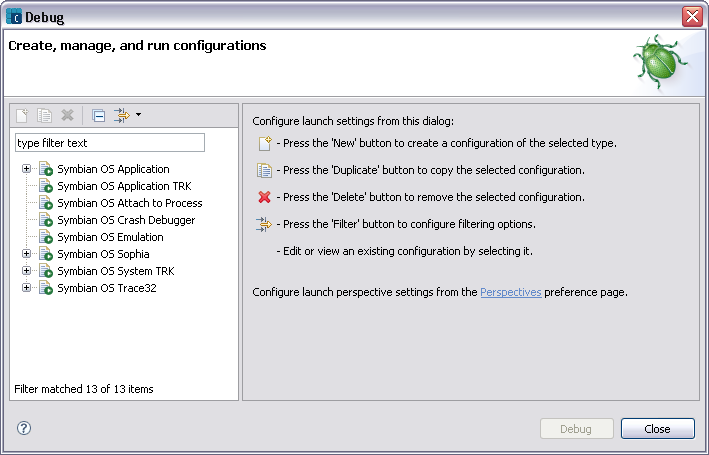
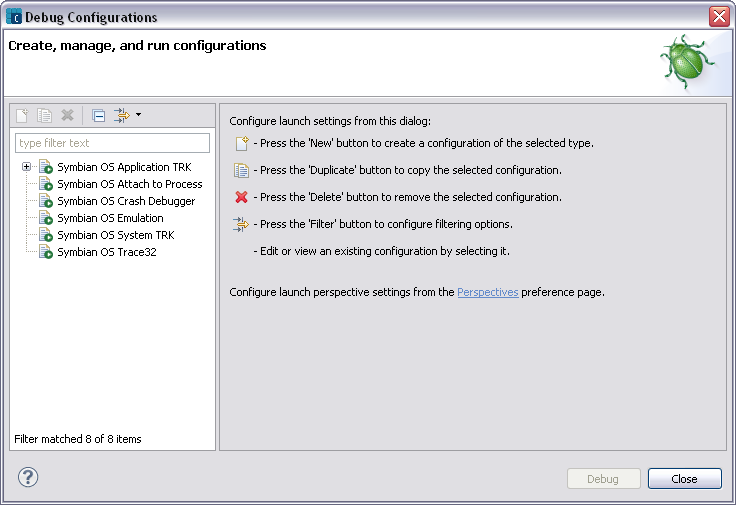
updated creating a launch config page and images
--HG--
branch : RCL_2_4

Changed region(s): [[0.0, 0.0, 1.0, 1.0], [0.3724, 0.6154, 0.6206, 0.6462]]

diff --git a/core/com.nokia.carbide.cpp.doc.user/html/tasks/projects/prj_debug_config.htm b/core/com.nokia.carbide.cpp.doc.user/html/tasks/projects/prj_debug_config.htm
@@ -18,23 +18,21 @@
 </ul>
 <div class="step">
 <h4>Creating a Default Launch Configuration</h4>
-<p class="note"><b>NOTE</b> Carbide.c++ only creates a new default launch configuration when it cannot find one in the project. If the project already contains a launch configuration, Carbide.c++ launches that instead. </p>
+<p class="note"><b>NOTE</b> Carbide only creates a new default launch configuration when it cannot find one in the project. If the project already contains a launch configuration, Carbide launches that instead. </p>
 <ul>
   <li>Click the <b>Run</b> (<img src="../../images/icons/btn_run.png" alt="Run icon" width="16" height="16" align="middle" />) or <b>Debug</b> (<img src="../../images/icons/btn_debug.png" width="17" height="16" align="middle" alt="Debug icon"/>) icon in the tool bar
     <p>or</p>
   </li>
   <li>Choose Select <b>Run &gt; Run</b> menu option to launch the project or <b>Run &gt; Debug</b> menu option to debug the project</li>
-  <p>Carbide.c++ creates a default launch configuration for the project and begins running or debugging the project. If the project already has a defined launch configuration, clicking Run or Debug uses it instead of creating a new one. There are two possible scenarios when creating a default launch configuration: </p>
+  <p>Carbide creates a default launch configuration for the project that is used to run or debug the project. If the project already has a defined launch configuration, clicking <b>Run</b> or <b>Debug</b> uses it instead of creating a new one. There are two possible scenarios when creating a default launch configuration: </p>
   <ul>
-    <li><b>for emulator targets </b> - an emulator launch configuration is created based on the project settings </li>
+    <li><b>for emulator targets</b> <b> - an emulator launch configuration is created based on the project settings </b></li>
     <li><b>for target devices</b> - the <a href="../../projects/launch/wiz_new_launch_config.htm">New Launch Configuration Wizard</a> appears asking for additional information</li>
   </ul>
 </ul>
 </div>
-  <p class="note"><b>NOTE</b> To see if a project already has a launch configuration, open a Run or Debug window using the <b>Run &gt; Open Run Dialog...</b> or <b>Run &gt; Open Debug Dialog...</b> menu items. 
-    
-  </p>
-  <p>In the event that the default launch configuration settings need to be changed, it is possible to edit them in the <a href="../../reference/wnd_debug_configuration.htm">Debug</a> window, or create a new launch configuration for the project that deviates from the default settings.</p>
+  <p class="note"><b>NOTE</b> To see if a project already has a launch configuration, open a Run or Debug window using the <b>Run &gt; Run As</b> or <b>Run &gt;  Debug As</b> menu items.  </p>
+<p>In the event that the default launch configuration settings must be changed, edit them in the <a href="../../reference/wnd_debug_configuration.htm">Debug</a> window, or simply create a new launch configuration for the project that deviates from the default settings.</p>
 <div class="step">
 <h4>Creating a Custom Launch Configuration </h4>
 <ol>
@@ -44,16 +42,16 @@
         <p>The appropriate Run or <a href="../../reference/wnd_debug_configuration.htm">Debug</a> launch configuration window appears (Figure 1).</p>
       </li>
    </ul>
-  <p align="center"><img src="images/wnd_launch_configuration_blank.png" width="709" height="455" alt="Undefined launch configuration"/> </p>
+  <p align="center"><img src="images/wnd_launch_configuration_blank.png" width="736" height="505" alt="Undefined launch configuration"/> </p>
   <p class="figure">Figure 1 - Initial blank Debug launch configuration window</p>
   </li>
   <li>Select a type of launch configuration (for example, Symbian OS Emulation), then click the New launch configuration icon to create a new
     configuration of that type.
-    <p>A new configuration appears in the Configuration list under the
+    <p>A new configuration appears in the configuration list under the
       appropriate section  using the project name and target to create the configuration name.</p>
-  <p class="note"><b>NOTE</b> By default, when you click New, the project information is used to fill in the Project and Process to launch text boxes. You normally should not have to edit these for a run/debug a project. If a bld.inf has multiple MMPS then the first executable named in the list of MMP files is used to fill in the executable field.  Therefore, for projects with multiple MMPs you may need to change the executable field.    </p>
+  <p class="note"><b>NOTE</b> Project information is used to fill in the <b>Project</b> and <b>Process to launch</b> text boxes by default when you click <b>New</b>. You  should not have to edit these for a normal run/debug project. If a <span class="code">bld.inf</span> has multiple MMP files listed, then the first executable  in the list  is used to fill in the executable field.  Therefore, for projects with multiple MMPs you may need to change the executable field.    </p>
   </li>
-  <p align="center"><img src="images/run_config_new.png" width="787" height="489" alt="New launch configuration" /> </p>
+  <p align="center"><img src="images/run_config_new.png" width="819" height="539" alt="New launch configuration" /> </p>
     <p class="figure">Figure 2 - New launch configuration with name and settings filled in (emulator)</p>
   
   <li>View the information to define the project and executable
@@ -94,7 +92,7 @@
     <li><a href="prj_build.htm">Building Projects</a></li>
     <li><a href="prj_debug_dlls.htm">Debugging DLLs</a></li>
 </ul>
-<div id="footer">Copyright &copy; 2009 Nokia Corporation and/or its subsidiary(-ies). All rights reserved. <br>License: <a href="http://www.eclipse.org/legal/epl-v10.html">http://www.eclipse.org/legal/epl-v10.html</a></div>
+<div id="footer">Copyright &copy; 2010 Nokia Corporation and/or its subsidiary(-ies). All rights reserved. <br>License: <a href="http://www.eclipse.org/legal/epl-v10.html">http://www.eclipse.org/legal/epl-v10.html</a></div>
 
 </body>
 </html>
